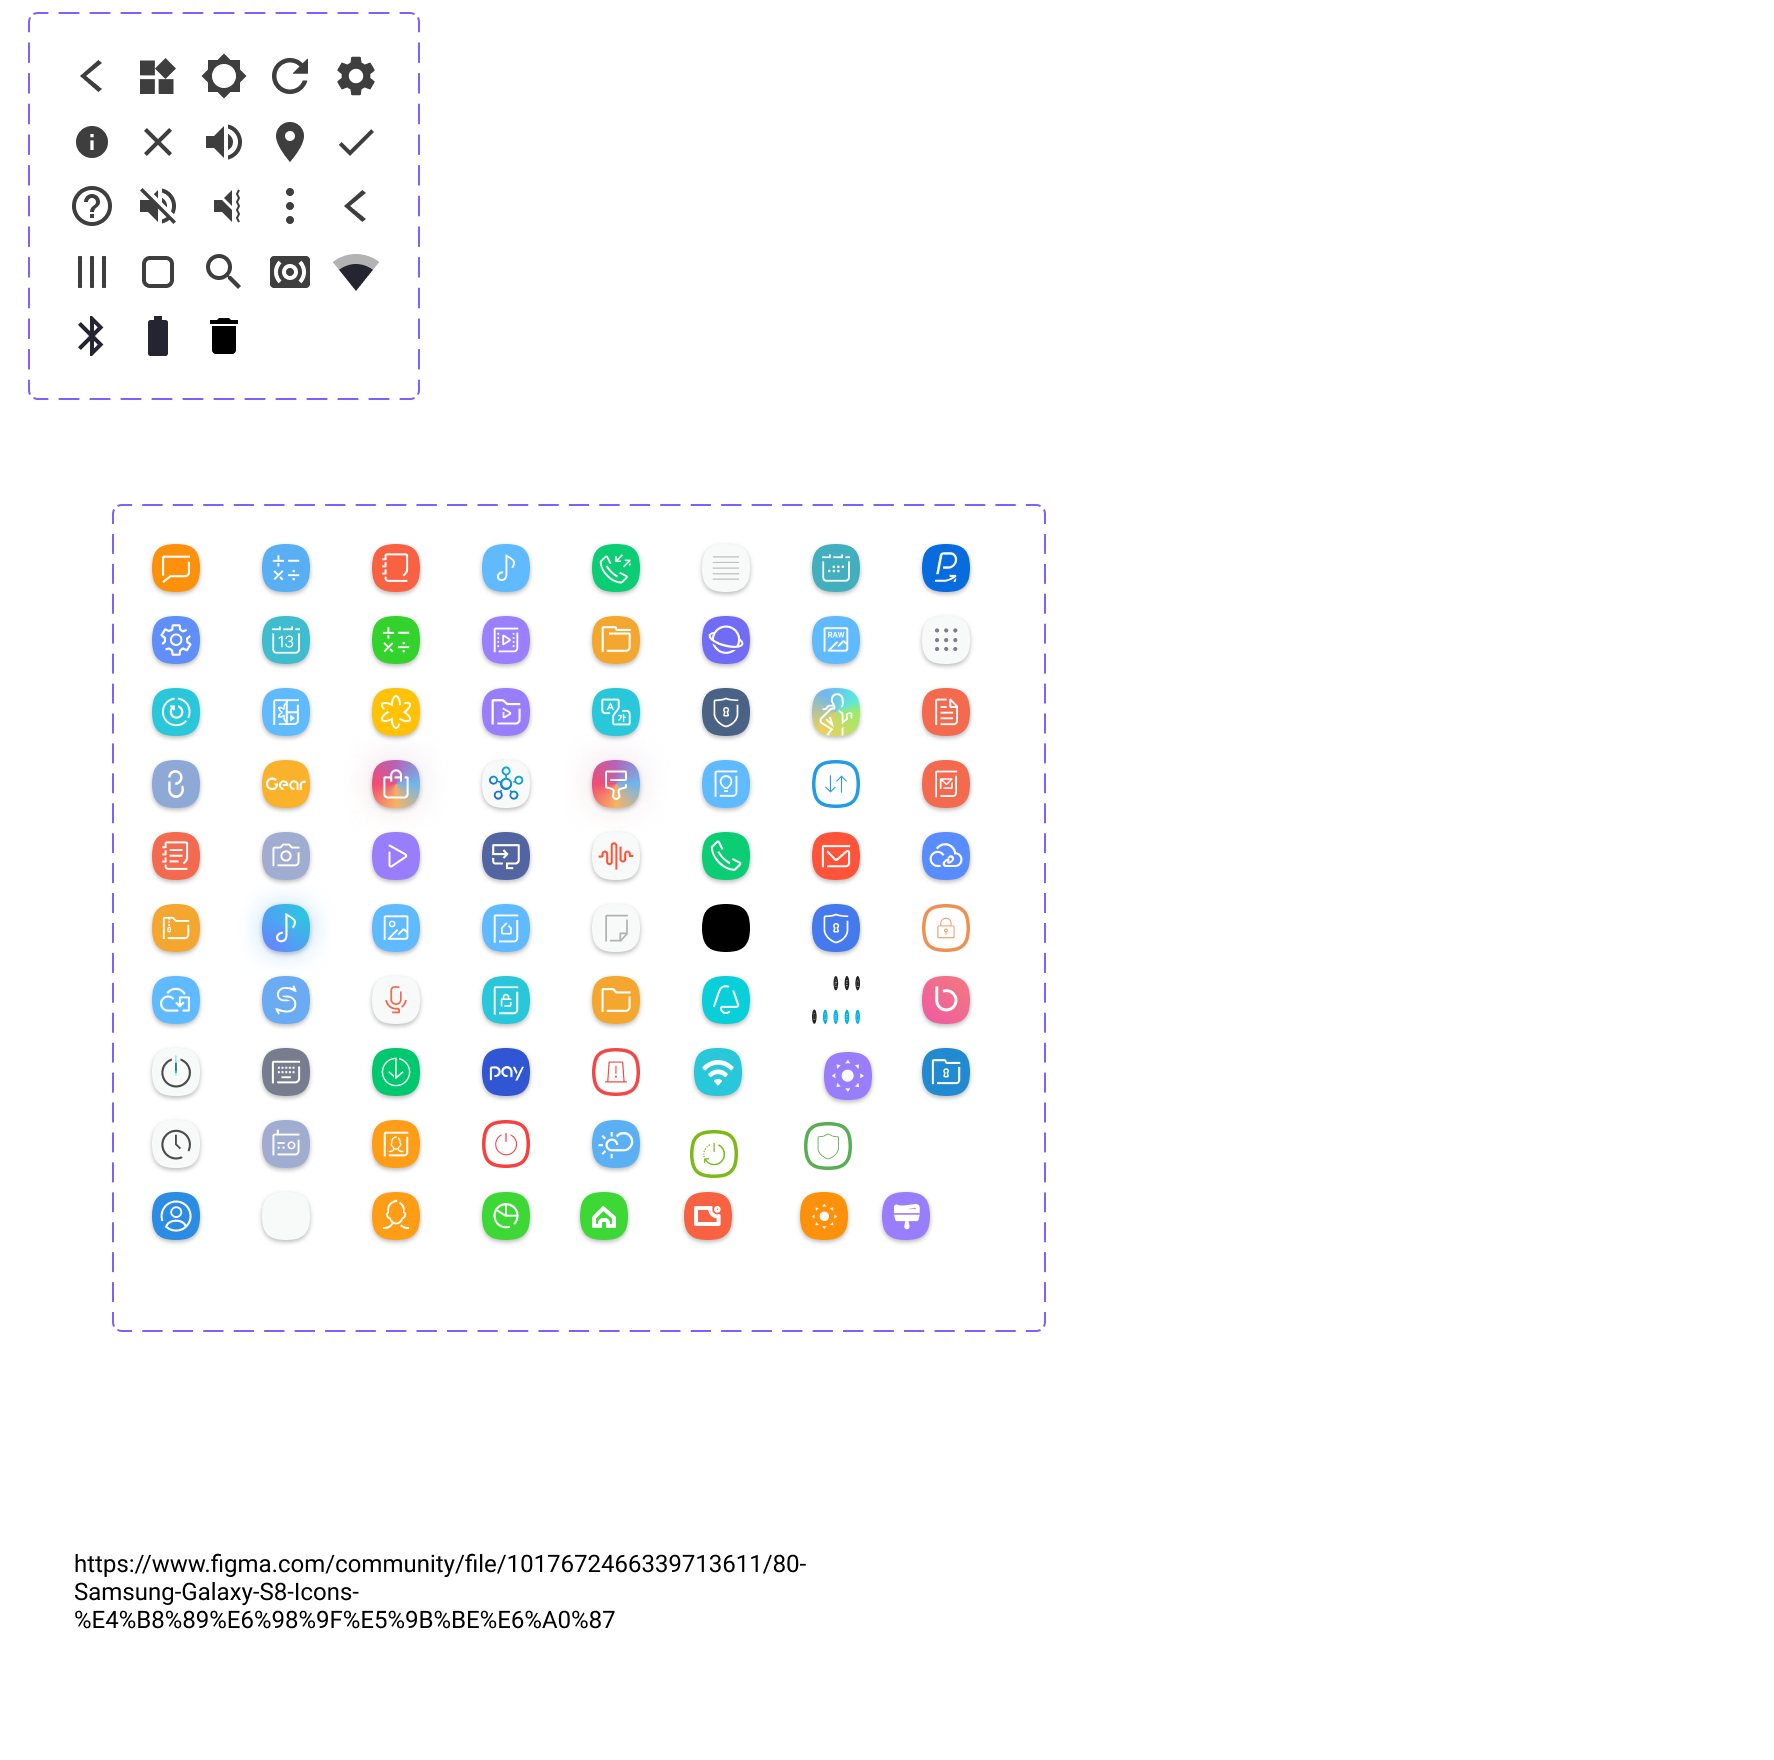
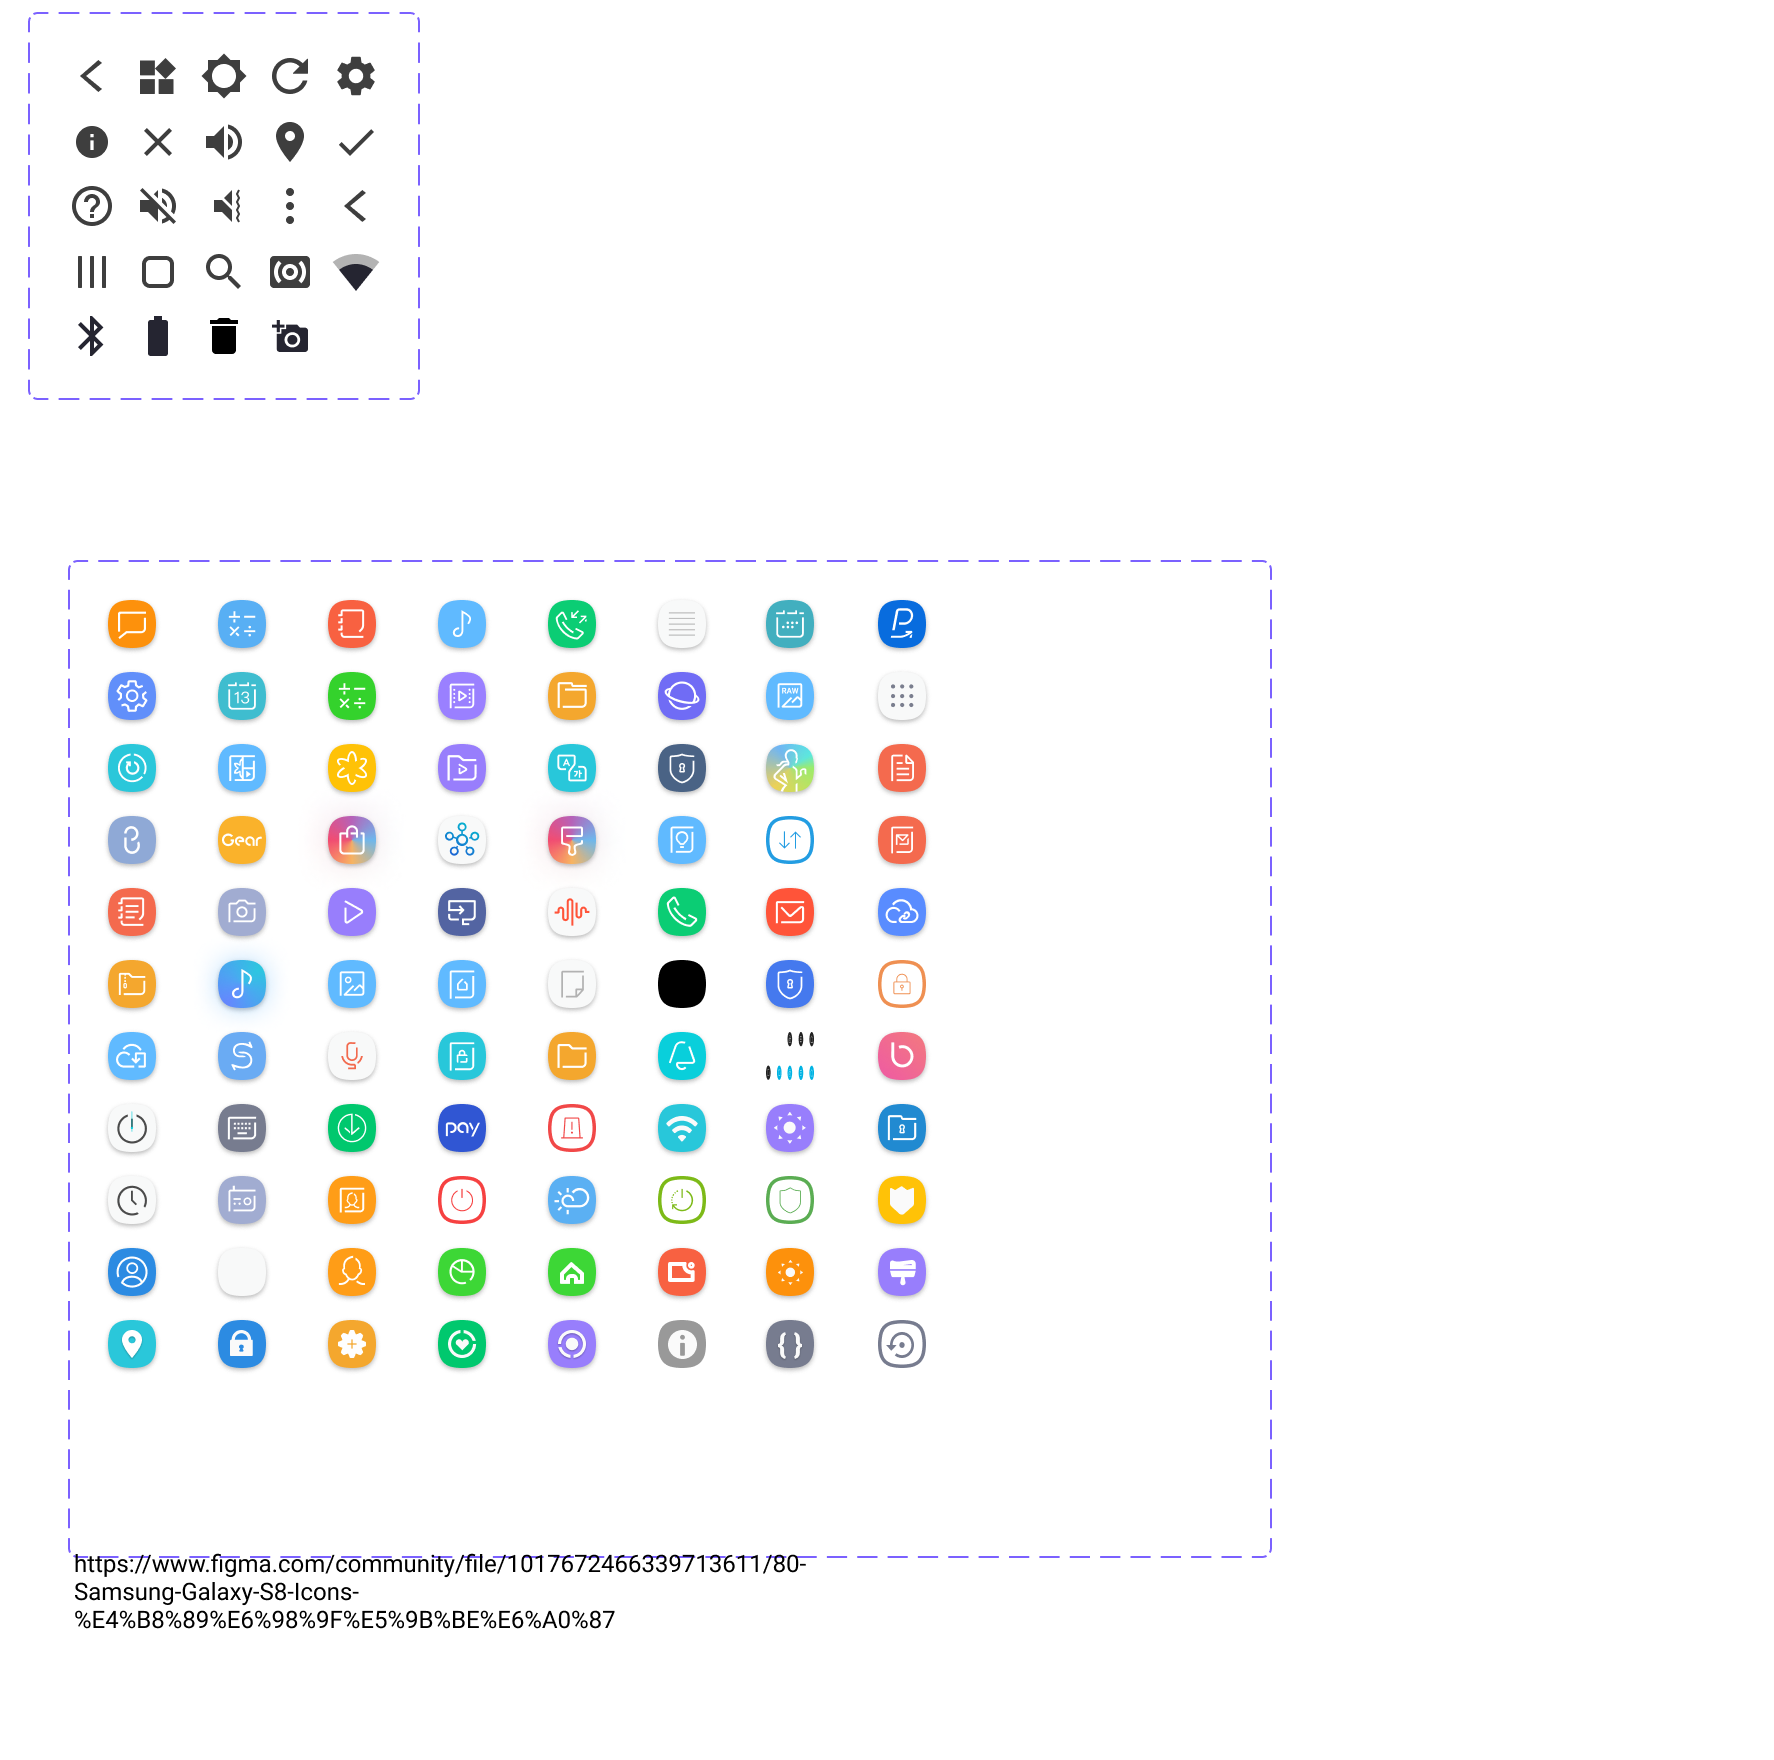
Save

Changed region(s): [[0.062, 0.3125, 0.5581, 0.7812], [0.155, 0.1875, 0.186, 0.2188], [0.124, 0.75, 0.155, 0.7812]]

diff --git a/projects/design-system-one.html b/projects/design-system-one.html
@@ -249,8 +249,7 @@
       <h4>Samsung Galaxy S8 icons</h4>
       <div class="row-67_33-seco">
         <div>
-          <p><a target="_blank" class="font-hyperlink_text-1" href="../assets/images/projects/design-system-1/icons-I1.png">Iteration 1's application icons</a>.</p>
-          <p>I decided to download  <a target="_blank" class="font-hyperlink_text-1" href="https://www.figma.com/community/file/1017672466339713611/80-Samsung-Galaxy-S8-Icons-%E4%B8%89%E6%98%9F%E5%9B%BE%E6%A0%87">Samsung Galaxy S8 Icons from Raven</a>. I took this route to enhance the polish of Design System One without spending an exorbitant amount of time on Iteration 2.
+          <p>I decided to download  <a target="_blank" class="font-hyperlink_text-1" href="https://www.figma.com/community/file/1017672466339713611/80-Samsung-Galaxy-S8-Icons-%E4%B8%89%E6%98%9F%E5%9B%BE%E6%A0%87">Samsung Galaxy S8 Icons from Raven</a>. I took this route to enhance the polish of Design System One without spending an exorbitant amount of time on Iteration 2. Specific application icon graphics were carried over from Iteration 1 for the sake of convenience, but application icon container shapes remain consistent with all of Iteration 2.</p>
         </div>
         <a target="_blank" href="../assets/images/projects/design-system-1/icons-I2.png">
           <img src="../assets/images/projects/design-system-1/icons-I2.png" alt="Notes of Design System One and its naming conventions">
